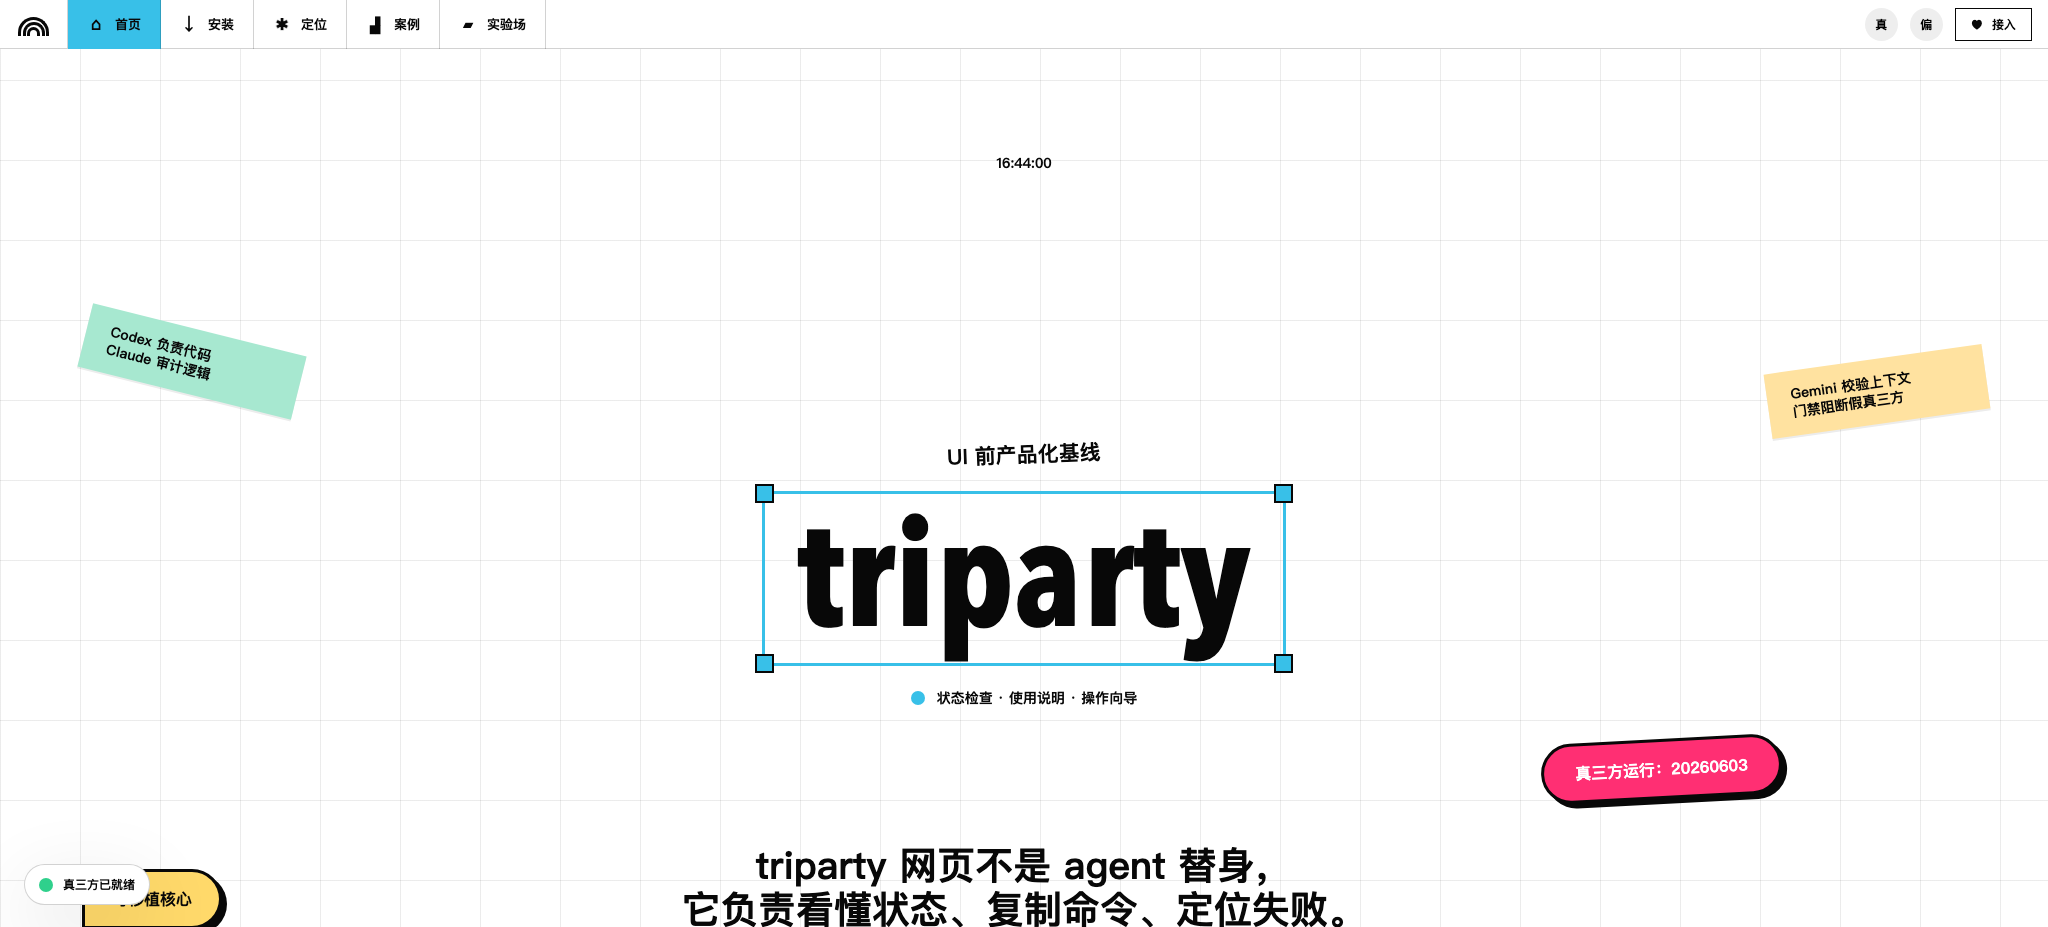
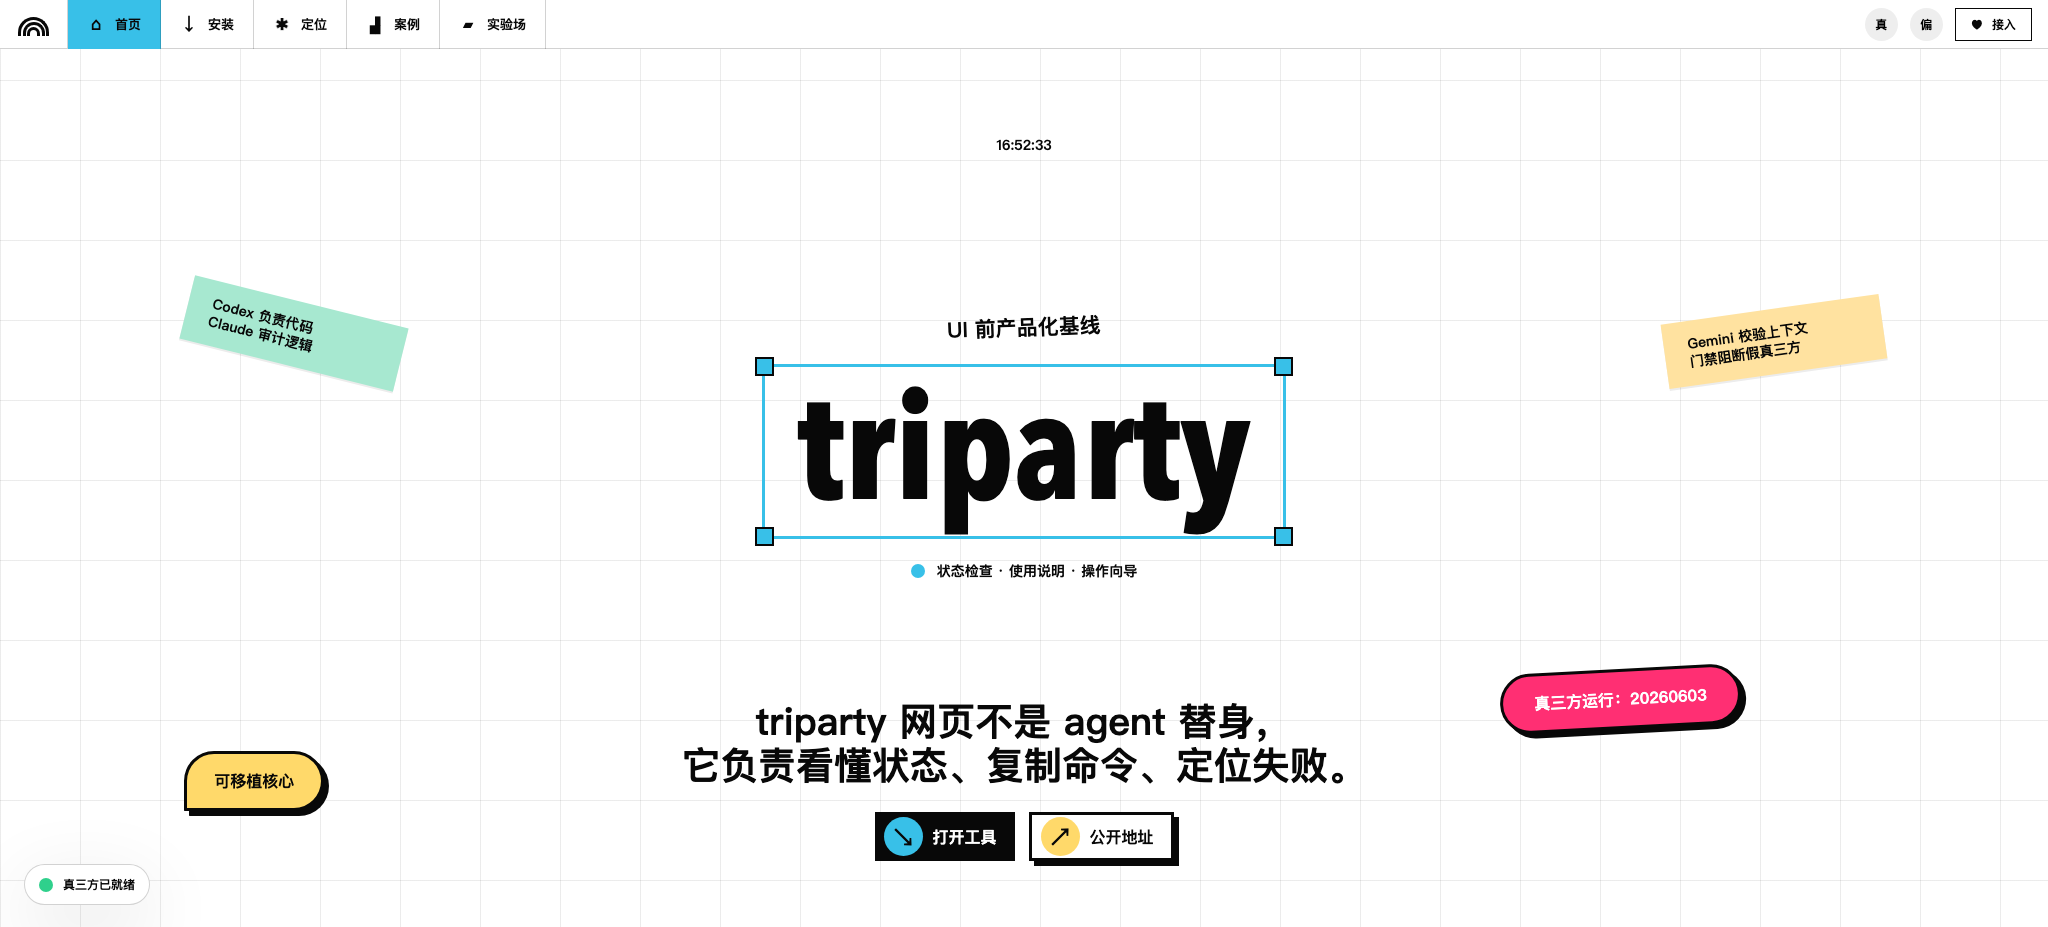
Tighten triparty homepage hero layout

diff --git a/web/index.html b/web/index.html
@@ -196,16 +196,16 @@
       }
 
       .hero {
-        min-height: 1000px;
+        min-height: min(840px, calc(100svh - 49px));
         position: relative;
         display: grid;
         place-items: center;
-        padding: 160px 24px 110px;
+        padding: 68px 24px 112px;
       }
 
       .clock {
         position: absolute;
-        top: 104px;
+        top: 86px;
         left: 50%;
         transform: translateX(-50%);
         font-weight: 900;
@@ -308,14 +308,14 @@
       }
 
       .sticker.left {
-        left: 4%;
-        top: 28%;
+        left: 9%;
+        top: 30%;
         background: var(--mint);
         transform: rotate(14deg);
       }
 
       .sticker.right {
-        right: 3%;
+        right: 8%;
         top: 31%;
         background: #ffe2a0;
         transform: rotate(-8deg);
@@ -330,16 +330,16 @@
         color: #fff;
         text-transform: uppercase;
         font-weight: 900;
-        bottom: 250px;
-        right: 13%;
+        bottom: 160px;
+        right: 15%;
         transform: rotate(-3deg);
         box-shadow: 5px 5px 0 var(--ink);
       }
 
       .chip-sticker {
         position: absolute;
-        left: 4%;
-        bottom: 120px;
+        left: 9%;
+        bottom: 78px;
         padding: 16px 27px;
         background: var(--yellow);
         border: 3px solid var(--ink);
@@ -351,7 +351,7 @@
 
       .intro-tool {
         position: absolute;
-        bottom: 118px;
+        bottom: 102px;
         left: 50%;
         transform: translateX(-50%);
         text-align: center;
@@ -370,7 +370,7 @@
 
       .hero-actions {
         position: absolute;
-        bottom: 42px;
+        bottom: 28px;
         left: 50%;
         transform: translateX(-50%);
         display: flex;
@@ -1672,12 +1672,12 @@
         }
 
         .hero {
-          min-height: 850px;
-          padding-top: 120px;
+          min-height: 760px;
+          padding-top: 96px;
         }
 
         .clock {
-          top: 82px;
+          top: 76px;
         }
 
         .display-frame {